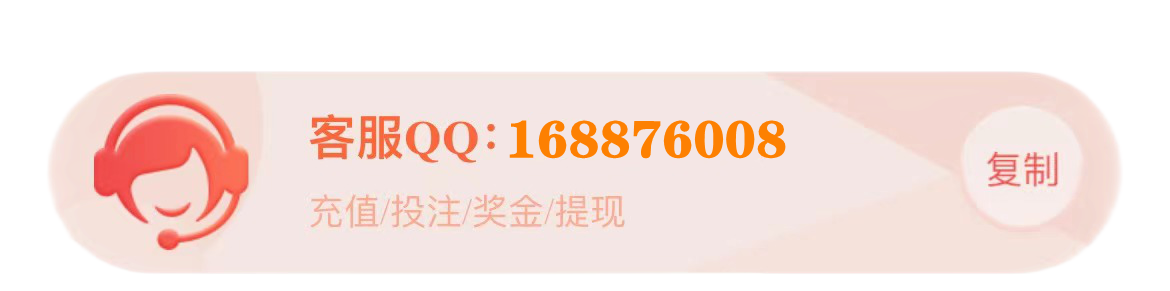
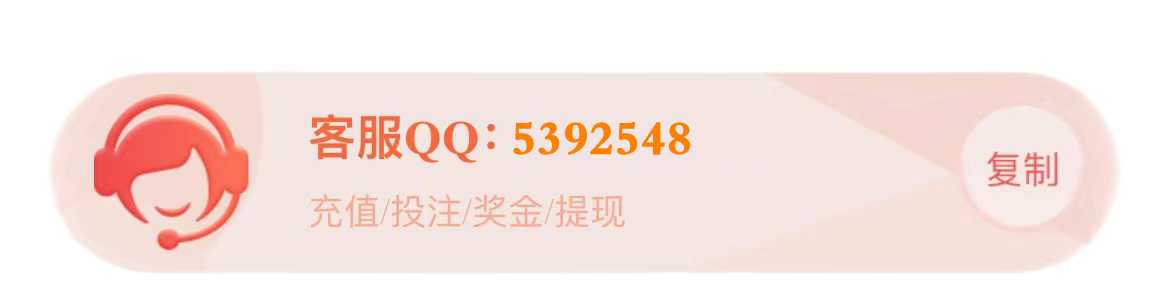
asd

Changed region(s): [[0.4308, 0.4021, 0.6769, 0.5567]]

diff --git a/lib/pages/Mine.dart b/lib/pages/Mine.dart
@@ -52,7 +52,7 @@ class _Mine extends State<Mine>  with SingleTickerProviderStateMixin ,AutomaticK
   };
 
   File _image;
-
+  String version;
   Future _openModalBottomSheet() async {
     final option = await showModalBottomSheet(
         context: context,
@@ -106,6 +106,14 @@ class _Mine extends State<Mine>  with SingleTickerProviderStateMixin ,AutomaticK
 
     super.initState();
     getUserInfo();
+    getVersion();
+  }
+  getVersion() async {
+    PackageInfo packageInfo = await PackageInfo.fromPlatform();
+    setState(() {
+      version = packageInfo.version;
+    });
+
   }
   getUserInfo() async{
    ResultData res = await HttpManager.getInstance().get("userInfo",withLoading: false);
@@ -167,7 +175,7 @@ class _Mine extends State<Mine>  with SingleTickerProviderStateMixin ,AutomaticK
                       "img/mineback.jpg",
                       fit: BoxFit.fill,
                       width: ScreenUtil.screenWidth,
-                      height: ScreenUtil().setHeight(285),
+                      height: ScreenUtil().setHeight(270),
                     ),
                   ),
                 ),
@@ -243,9 +251,7 @@ class _Mine extends State<Mine>  with SingleTickerProviderStateMixin ,AutomaticK
                                        user_info["has_bank"] = res.data["has_bank"];
                                        user_info["img_url"] = res.data["avatar"];
                                        user_info["award_amount"] = res.data["award_amount"];
-
                                      }
-
                                    });
                                  },
                                  icon: Icon(Icons.refresh,color: Colors.white,),
@@ -309,7 +315,7 @@ class _Mine extends State<Mine>  with SingleTickerProviderStateMixin ,AutomaticK
                       height: ScreenUtil().setHeight(75),
                       width: ScreenUtil().setWidth(375),
                       padding: EdgeInsets.only(left: ScreenUtil().setWidth(40),right: ScreenUtil().setWidth(40)),
-                      margin: EdgeInsets.only(top: ScreenUtil().setHeight(100)),
+                      margin: EdgeInsets.only(top: ScreenUtil().setHeight(60)),
                       child:  Row(
                         mainAxisAlignment: MainAxisAlignment.spaceBetween,
                         children: <Widget>[
@@ -417,7 +423,7 @@ class _Mine extends State<Mine>  with SingleTickerProviderStateMixin ,AutomaticK
                       padding: EdgeInsets.only(left: ScreenUtil().setWidth(40),right: ScreenUtil().setWidth(55)),
                       margin: EdgeInsets.only(top: ScreenUtil().setHeight(25)),
                       child:  Row(
-                        mainAxisAlignment: MainAxisAlignment.spaceBetween,
+                        mainAxisAlignment: MainAxisAlignment.spaceAround,
                         children: <Widget>[
                           Wrap(
                             spacing: 6,
@@ -446,90 +452,57 @@ class _Mine extends State<Mine>  with SingleTickerProviderStateMixin ,AutomaticK
                               crossAxisAlignment: WrapCrossAlignment.center,
                               children: <Widget>[
                                 Container(
-                                  child: Icon(const IconData(0xe602,fontFamily: "iconfont"),color: Colors.blue,size: 18,),
+                                  child: Icon(const IconData(0xe604,fontFamily: "iconfont"),size: 18,),
                                 ),
-                                Container(
-                                  child: Text("客服",style: TextStyle(fontWeight: FontWeight.bold),),
-                                ),
-                                Container(
-                                  child: Text("QQ客服"),
-                                ),
+                                GestureDetector(
+                                  onTap: () async {
+
+                                    ResultData result = await HttpManager.getInstance().get(
+                                        "logout",withLoading: false);
+                                    if(result.code == 200){
+                                      TokenStore().clearToken("token");
+                                      TokenStore().clearToken("is_login");
+                                      JumpAnimation().jump(Login(), context);
+                                    }
+                                  },
+                                  child: Container(
+                                    child: Text("退出登录",style: TextStyle(fontWeight: FontWeight.bold),),
+                                  ),
+                                )
+
                               ],
                             ),
                           )
                         ],
                       ),
                     ),
+
                     Container(
-                      height: ScreenUtil().setHeight(85),
-                      width: ScreenUtil().setWidth(375),
-                      padding: EdgeInsets.only(left: ScreenUtil().setWidth(40),right: ScreenUtil().setWidth(75)),
-                      margin: EdgeInsets.only(top: ScreenUtil().setHeight(15)),
-                      child:  Row(
-                        mainAxisAlignment: MainAxisAlignment.spaceBetween,
-                        children: <Widget>[
-                          Wrap(
-                            spacing: 6,
-                            crossAxisAlignment: WrapCrossAlignment.center,
-                            children: <Widget>[
-                              Container(
-                                child: Icon(const IconData(0xe6b1,fontFamily: "iconfont"),color: Colors.pinkAccent,size: 18,),
-                              ),
-                              GestureDetector(
-                                onTap: ()async{
-                                  ResultData res = await HttpManager.getInstance().get("appversion",withLoading: true);
-                                  String appversion = res.data["data"];
-                                  String version;
-                                  PackageInfo packageInfo = await PackageInfo.fromPlatform();
-                                  version = packageInfo.version;
-                                  if(version != appversion){
-                                    const url = 'https://www.bjhhsi.com/down?pckId=3dd09db205134e2eabfcde5a965aedc8';
-                                    EventDioLog("提示","发现新版本,是否前往升级?",context,()async{
-                                      if (await canLaunch(url)) {
-                                        await launch(url);
-                                      } else {
-                                        throw 'Could not launch $url';
-                                      }
-                                    }).showDioLog();
-                                  }else{
-                                    Toast.toast(context,msg: "已是最新版本");
-                                  }
-                                },
-                                child: Container(
-                                  child: Text("检查更新",style: TextStyle(fontWeight: FontWeight.bold),),
-                                ),
-                              ),
+                      margin: EdgeInsets.only(bottom: 10),
+                      child: GestureDetector(
+                        onTap: (){
+                          Future res = Clipboard.setData(ClipboardData(text: '5392548'));
+                          res.whenComplete(() =>Toast.toast(context,msg: "复制成功"));
+                        },
+                        child: Container(
 
-                            ],
-                          ),
-                          Wrap(
-                            spacing: 6,
-                            crossAxisAlignment: WrapCrossAlignment.center,
-                            children: <Widget>[
-                              Container(
-                                child: Icon(const IconData(0xe604,fontFamily: "iconfont"),size: 18,),
-                              ),
-                              GestureDetector(
-                                onTap: () async {
+                          child:Image.asset("img/kefu.jpg",fit: BoxFit.fill,width: 320,),
 
-                                  ResultData result = await HttpManager.getInstance().get(
-                                      "logout",withLoading: false);
-                                  if(result.code == 200){
-                                    TokenStore().clearToken("token");
-                                    TokenStore().clearToken("is_login");
-                                    JumpAnimation().jump(Login(), context);
-                                  }
-                                },
-                                child: Container(
-                                  child: Text("退出登录",style: TextStyle(fontWeight: FontWeight.bold),),
-                                ),
-                              )
-
-                            ],
-                          )
-                        ],
+                        ),
                       ),
                     ),
+                    Container(
+                      child: Wrap(
+
+                        spacing: 11,
+                        crossAxisAlignment:WrapCrossAlignment.center,
+                        children: <Widget>[
+                          Text("当前版本:",style: TextStyle(color: Colors.grey,fontSize: 12),),
+                          Text("v"+version,style: TextStyle(color: Colors.grey,fontSize: 12)),
+
+                        ],
+                      ),
+                    )
 
 
 
